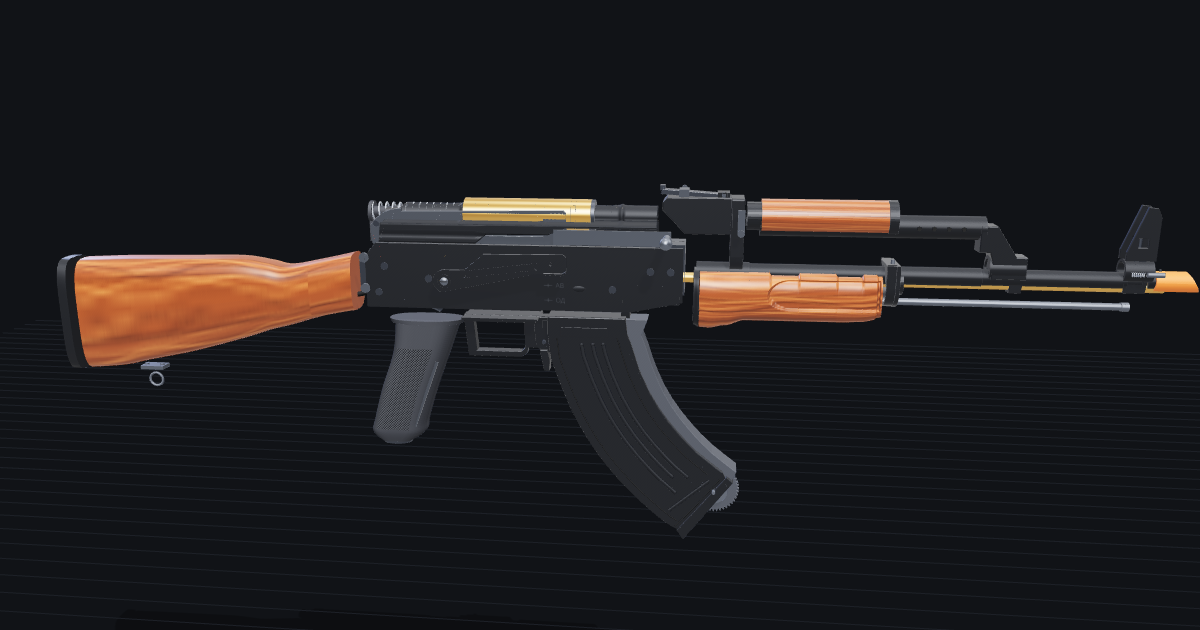
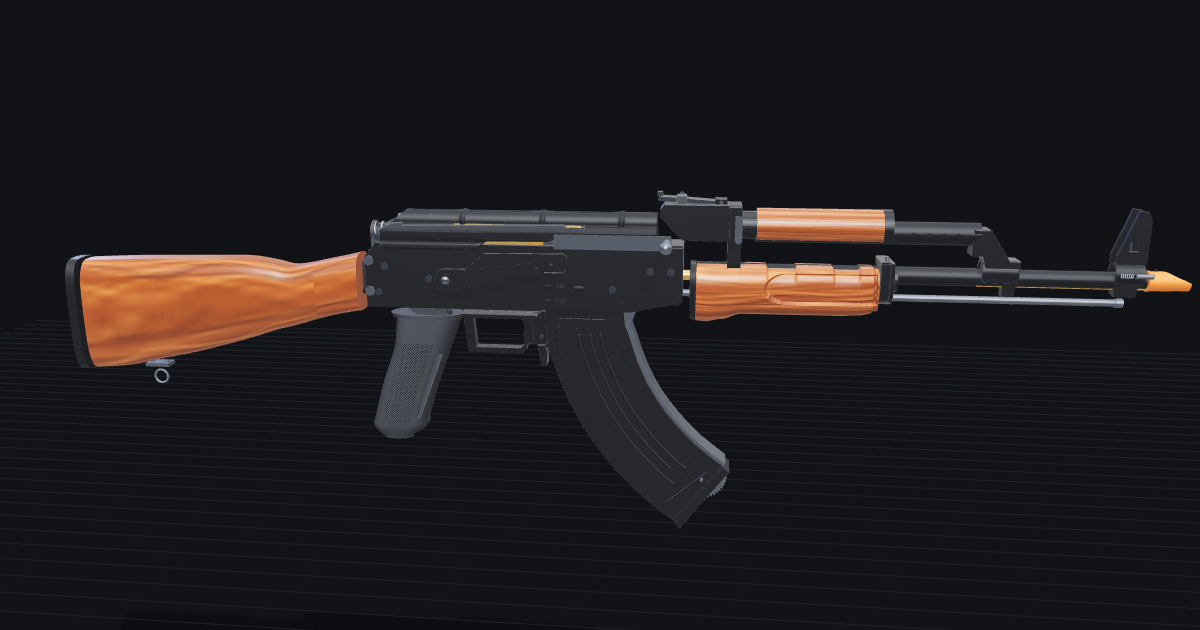
Brake, cleaning rod, handguard cap from CYMA spare listings
Slant brake: rear rim, main body, slimmer nose, slant only above the bore
(side photo, C.54 spare shots). Cleaning rod runs into the front trunnion
(CYMA spare is 405mm). Four rivet heads on the lower handguard front cap.

diff --git a/cm048m/index.html b/cm048m/index.html
@@ -561,9 +561,11 @@ function extrudeX(shape, xA, xB, bevel = 0) {
 // ================= BARREL, SIGHTS AND FRONT END =================
 part('brake', 'Slant muzzle brake + thread adaptor, screw', 'frt', ['37M', '35', '36'], [230, 0, 0],
   'AKM-style slant brake (37M), orange on US-market guns. Threads onto the outer barrel through adaptor 35 (14mm CCW, same size as the real AKM M14x1 LH thread) and is locked by M3x3 grub screw 36. The slant cut is longer at the bottom so real muzzle gas pushes the muzzle down against climb.',
-  [[clipFront(latheX([[4.5, X(66)], [10, X(66)], [10, X(20)], [4.5, X(20)], [4.5, X(66)]], 40), y => X(24) - (y + 10) * 0.6), 'orange'],
+  // profile from the side photo and the CYMA C.54 spare (taiwangun side shot): rear rim, main body, slimmer nose;
+   // the slant face runs from the top down to the bore line, below it the front face is square
+   [[clipFront(latheX([[4.5, X(63)], [10.3, X(63)], [10.3, X(60.5)], [9.7, X(60.5)], [9.7, X(41)], [9.2, X(41)], [9.2, X(24.5)], [4.5, X(24.5)], [4.5, X(63)]], 40), y => X(24.5 + Math.max(0, y) * 2.2)), 'orange'],
    [tube(5.2, 8.2, X(72), X(64), 24), 'blk'],
-   [cyl(1.2, 3, 'y', X(60), 10, 0, 8), 'dark']]);
+   [cyl(1.2, 3, 'y', X(55), 10, 0, 8), 'dark']]);
 part('fsb', 'Front sight block + post, detent, pins', 'frt', ['28M', '29M', '30M', '27M', '31'], [200, 90, 0],
   'Front sight block (28M) pinned to the outer barrel. Carries the threaded post (30M) with its detent (29M) and the lug that holds the cleaning rod. Real AKM: post 26mm long, M6x0.75 thread, screwed into a drum for elevation zeroing.',
   [[tube(8.8, 12, X(93), X(66), 32), 'blk'],
@@ -579,8 +581,8 @@ part('outerBarrel', 'Outer barrel', 'frt', ['15M'], [120, 0, 0],
   'Zinc alloy outer barrel (15M, AKM length). The real AKM barrel is 415mm, stepping from about 18mm at the trunnion to 14.5mm under the front sight; this one is hollow for the 455mm inner barrel. 14mm CCW thread at the muzzle.',
   [[latheX([[5.4, X(493)], [10.4, X(493)], [10.4, X(440)], [9.4, X(440)], [9.4, X(215)], [8.6, X(215)], [8.6, X(80)], [7.8, X(80)], [7.8, X(66)], [5.4, X(66)], [5.4, X(493)]], 36), 'blk']]);
 part('cleaningRod', 'Cleaning rod', 'frt', ['34'], [150, -95, 0],
-  'Steel cleaning rod under the barrel, held at the front sight block and running back under the handguard. Real AKM rod is about 400mm.',
-  [[cyl(mm(3), X(80) - X(470), 'x', (X(80) + X(470)) / 2, Y(119.5), 0, 12), 'steel'],
+  'Steel cleaning rod under the barrel, held at the front sight block and running back under the handguard into the front trunnion. CYMA lists the spare rod at 405mm; real AKM rod is about 400mm.',
+  [[cyl(mm(3), X(80) - X(550), 'x', (X(80) + X(550)) / 2, Y(119.5), 0, 12), 'steel'],
    [cyl(mm(3.8), mm(6), 'x', X(80), Y(119.5), 0, 12), 'steel']]);
 part('gasBlock', 'Gas block + pins', 'frt', ['26M', '27M'], [160, 90, 0],
   'AKM 45 degree gas block (26M), pinned to the barrel (27M, 2x12.5 shaft). Decorative on the airsoft gun. The lower tab holds the cleaning rod.',
@@ -602,6 +604,8 @@ part('lowerHG', 'Lower handguard + retaining slices', 'frt', ['53M', '54'], [90,
 part('hgRetainer', 'Lower handguard front cap + button', 'frt', ['24', '25'], [140, -60, 0],
   'Handguard retainer (24): a D-shaped steel plate on the barrel with a collar in front, a hole for the cleaning rod below the bore, and a cup rim behind it that holds the front tenon of the lower handguard. The lock button (25) sits on top at the right (real AKM retainers use a lever there), and an ear on the left carries the front sling slot.',
   [[extrudeX(retainerShape(), X(301), X(297.5), 0.4), 'blk'],
+   // four rivet heads on the front face (Patrol Base spare photo)
+   ...[[12, 9], [-12, 9], [10, -12], [-10, -12]].map(([z, y]) => [cyl(mm(1.8), 1.2, 'x', X(297.5) + 0.7, mm(y), mm(z), 12), 'blk']),
    [(() => { const s = retainerShape(0, false), h = new THREE.Path(), hw = mm(16), cy = mm(-2.5);
       h.moveTo(-hw, mm(17)); h.lineTo(-hw, cy); h.absarc(0, cy, hw, -Math.PI, 0, false); h.lineTo(hw, mm(17)); h.lineTo(-hw, mm(17)); s.holes.push(h);
       return extrudeX(s, X(310), X(301)); })(), 'blk'],
